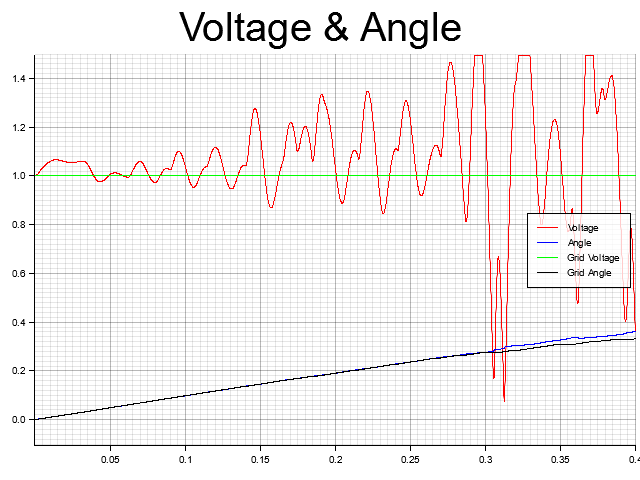
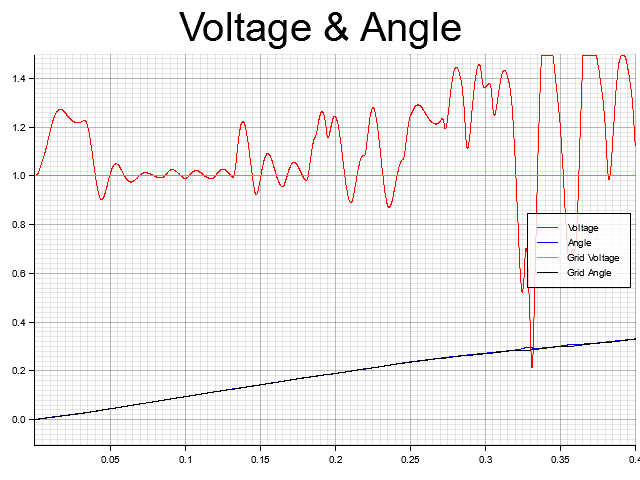
Adjust ode solver tolerance values

diff --git a/src/main.rs b/src/main.rs
@@ -34,8 +34,8 @@ fn main() -> Result<(), Box<dyn std::error::Error>> {
     let mut bus: ACVoltSrc = build_ac_volt_src(v_nom, w_nom, s_rated);
 
     // ODE solver settings
-    let rtol = 1.0e-5; let atol = 1.0e-6;
-    let ode_steps = 20.;
+    let rtol = 1.0e-5; let atol = 1.0e-5;
+    let ode_steps = 5.;
     
     /* 
     RUNNING DYNAMICAL SIMULATION
